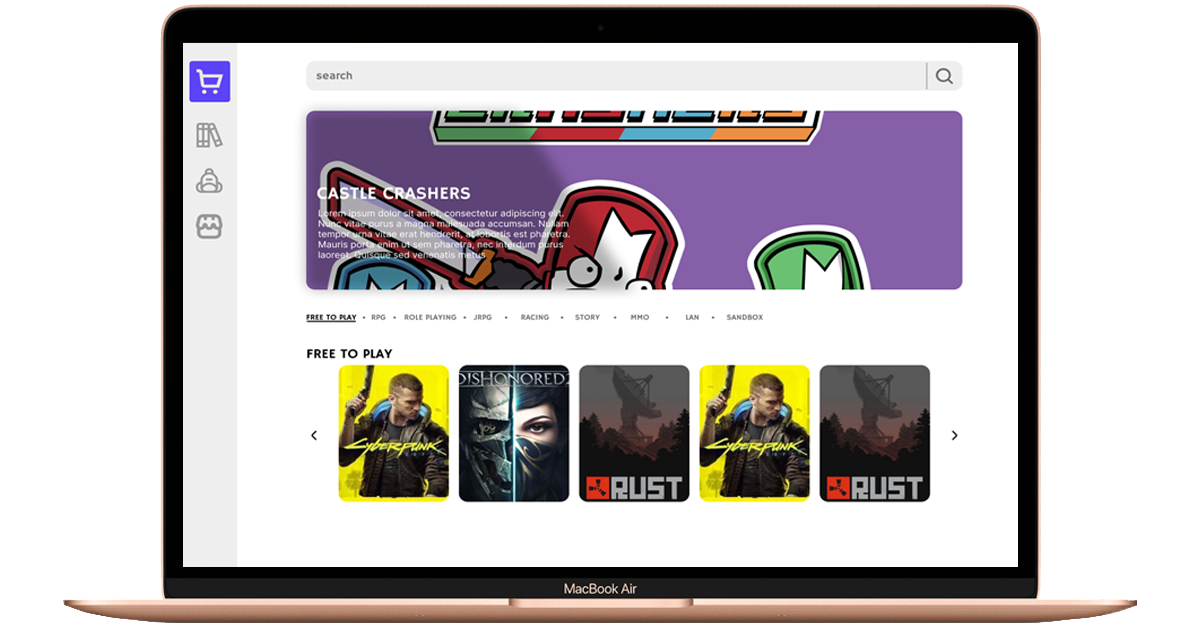
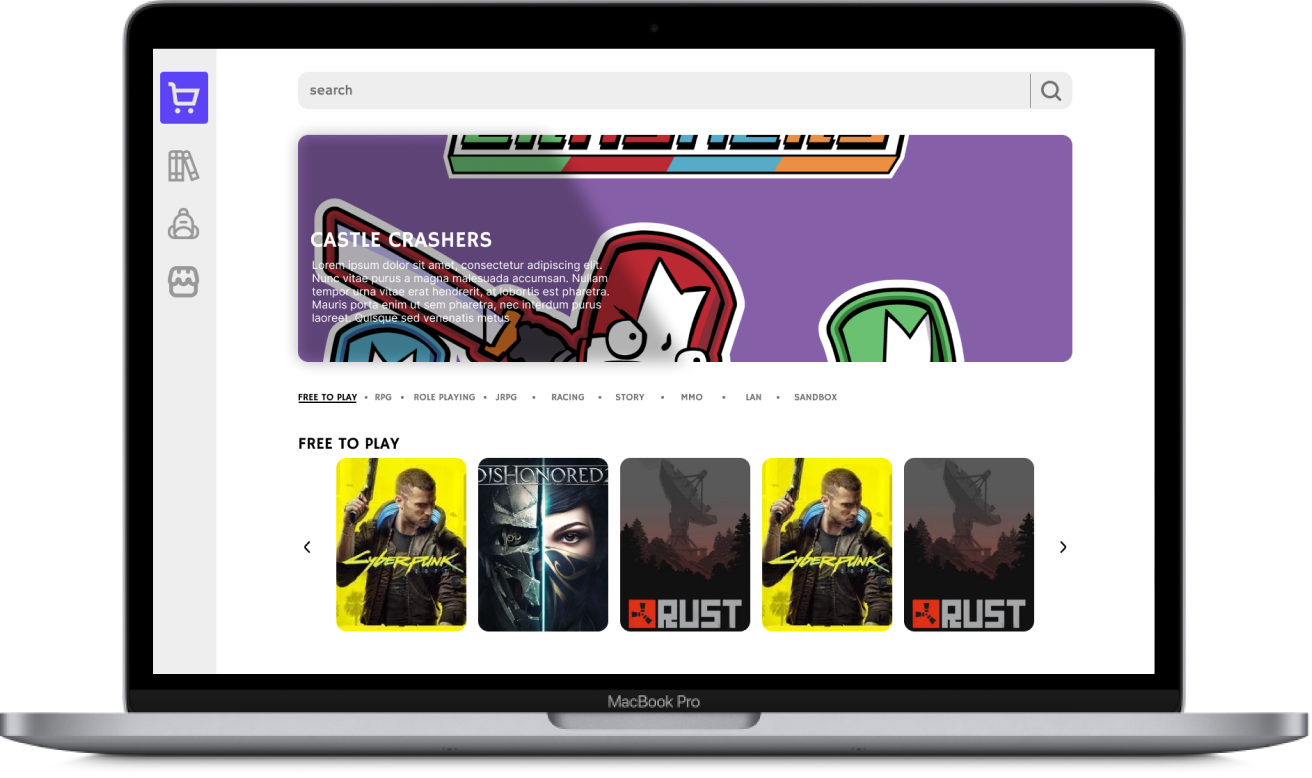
Darkmode

diff --git a/public/index.html b/public/index.html
@@ -368,7 +368,50 @@
   background-color: #181a1b;
 }
 
+p {
+  color: #ffffff;
+}
+
+h2 {
+  color: #ffffff;
+}
+
+#root {
+  background-color: #181a1b;
+
+}
+
+#demo {
+
+  background-image: url(aaaaaa.png);
+}
+
+#contentOneImg{
+
+  background-image: url(aaaaaa.png);
+}
+
+#content2Img{
+
+background-image: url(darkinve.png);
+}
+
+#content3Img{
+
+background-image: url(darkmark.png);
+}
+
+#content4Img{
+
+background-image: url(ow.png);
+}
+
+#imageContainer{
+background-image: url(darkLaptop.png);
+
   }
+
+}
   .cont{
     display: flex;
     flex-direction: column;
